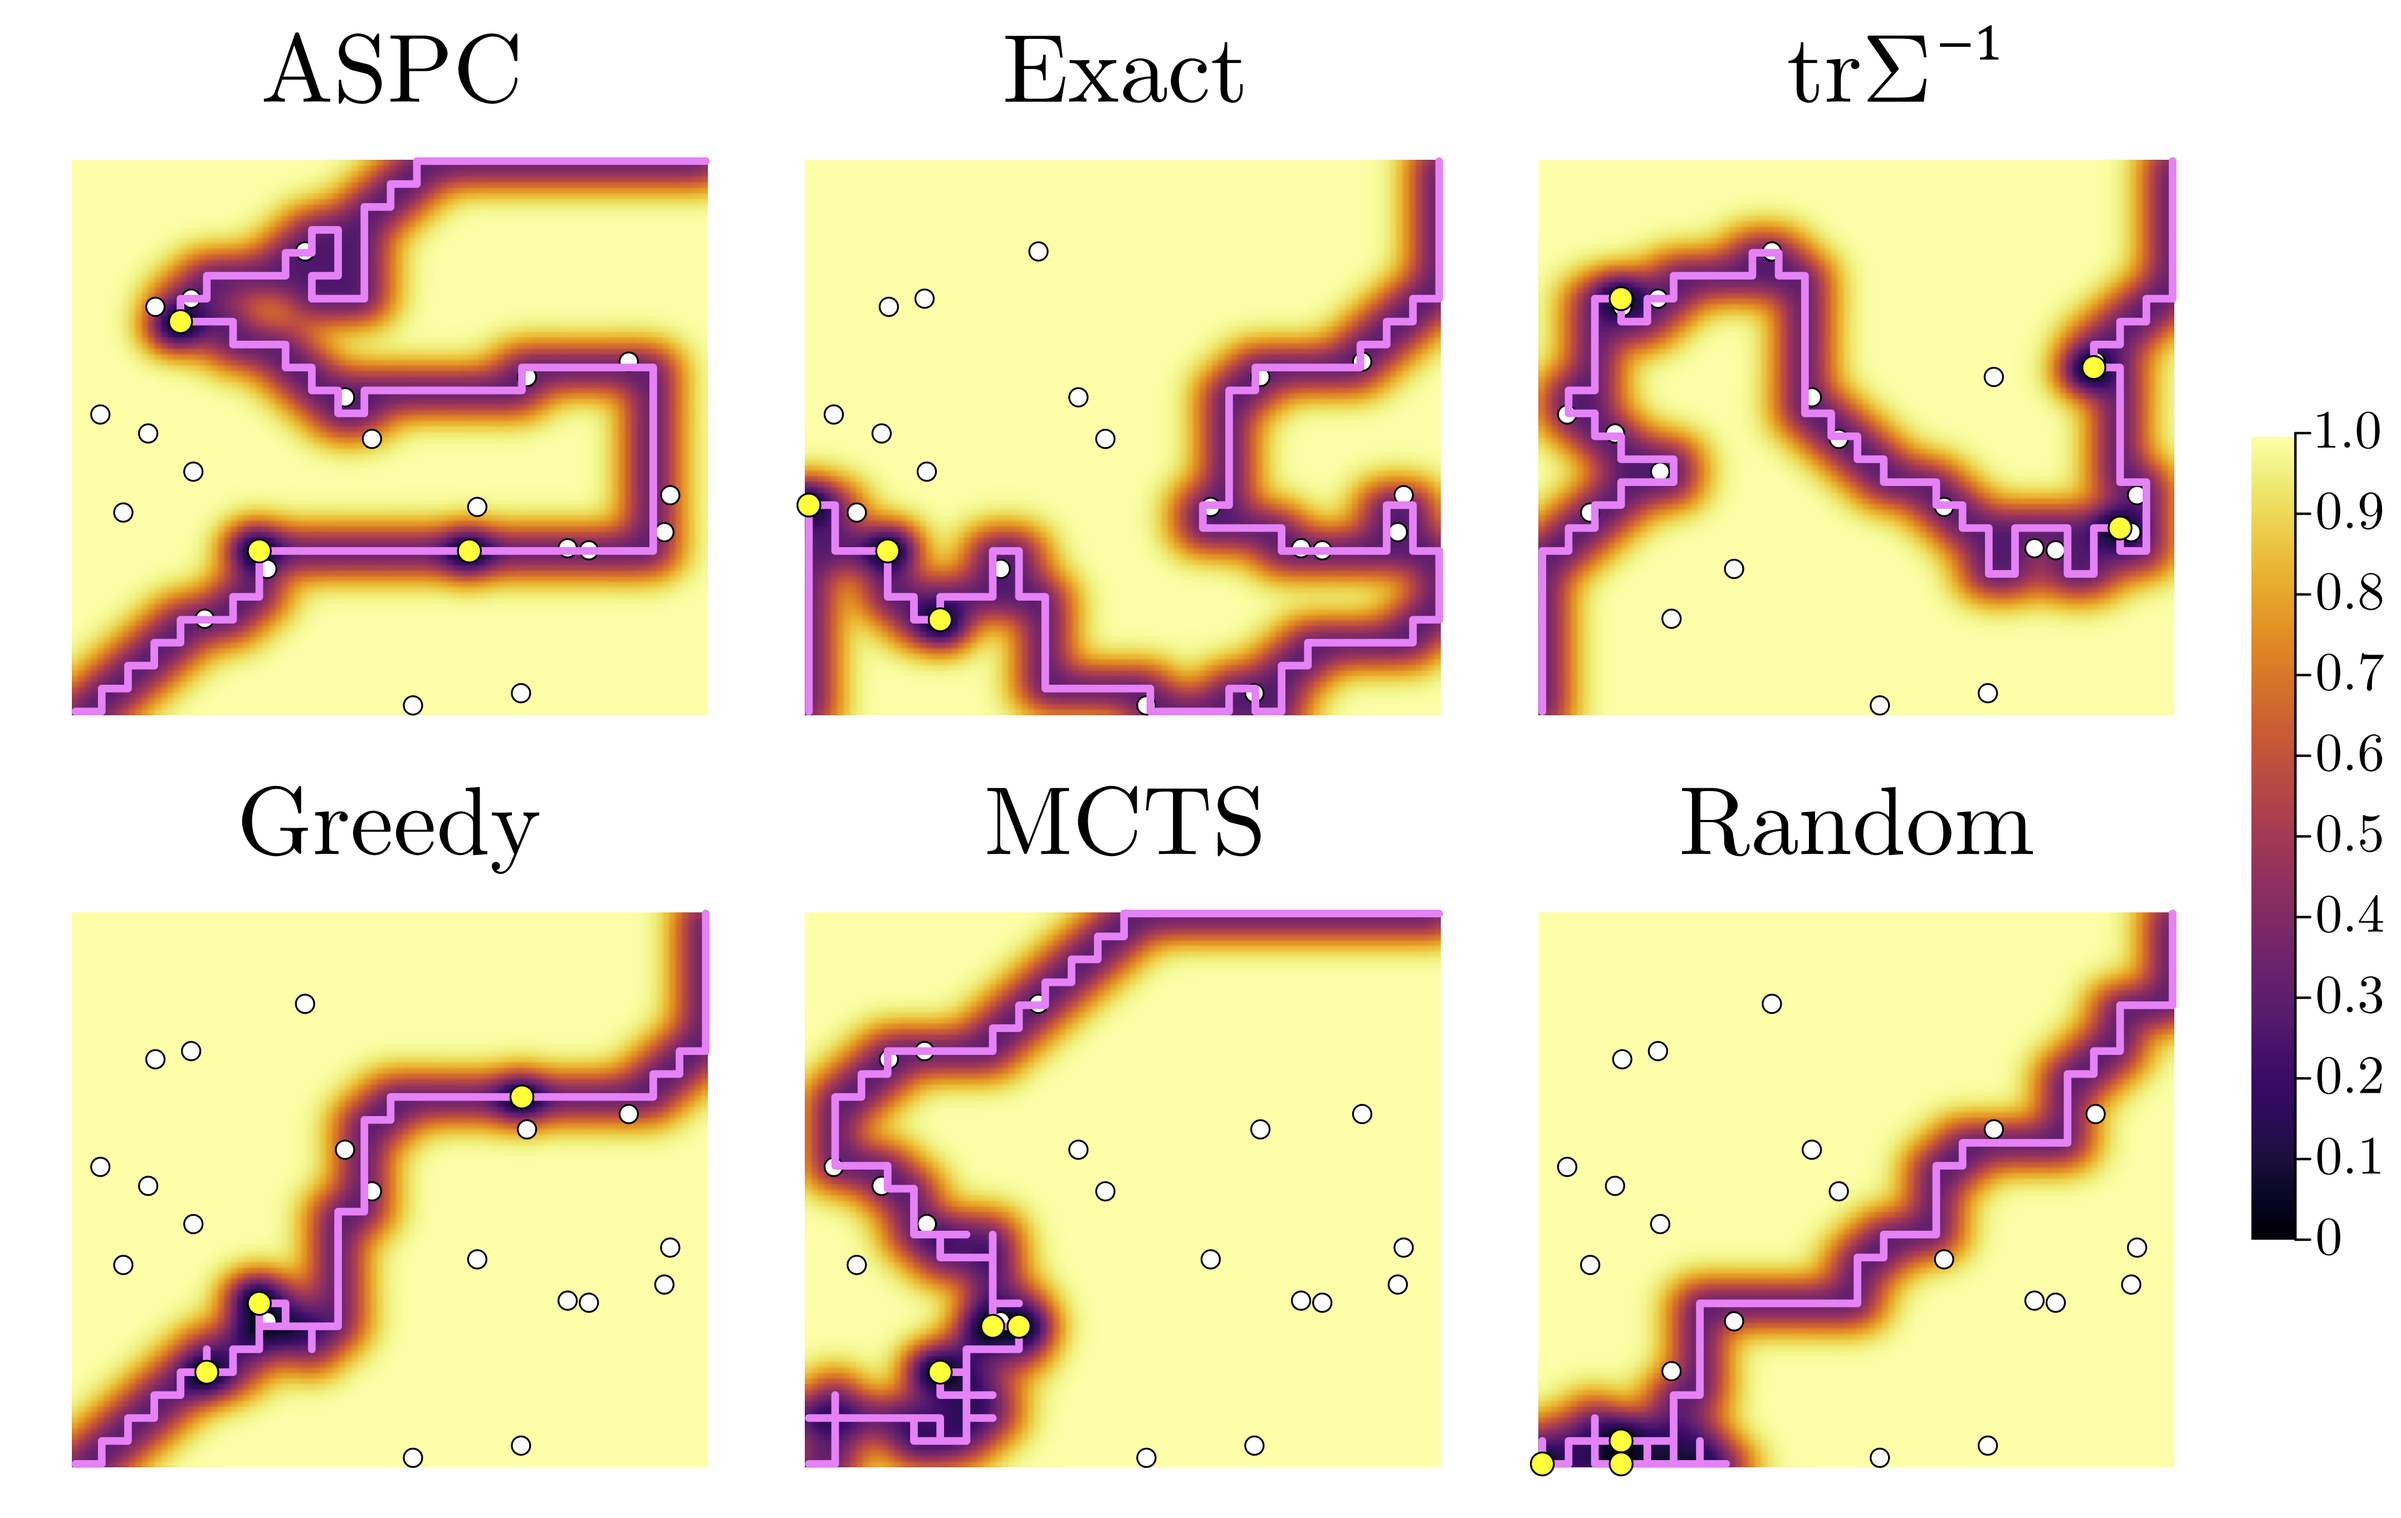
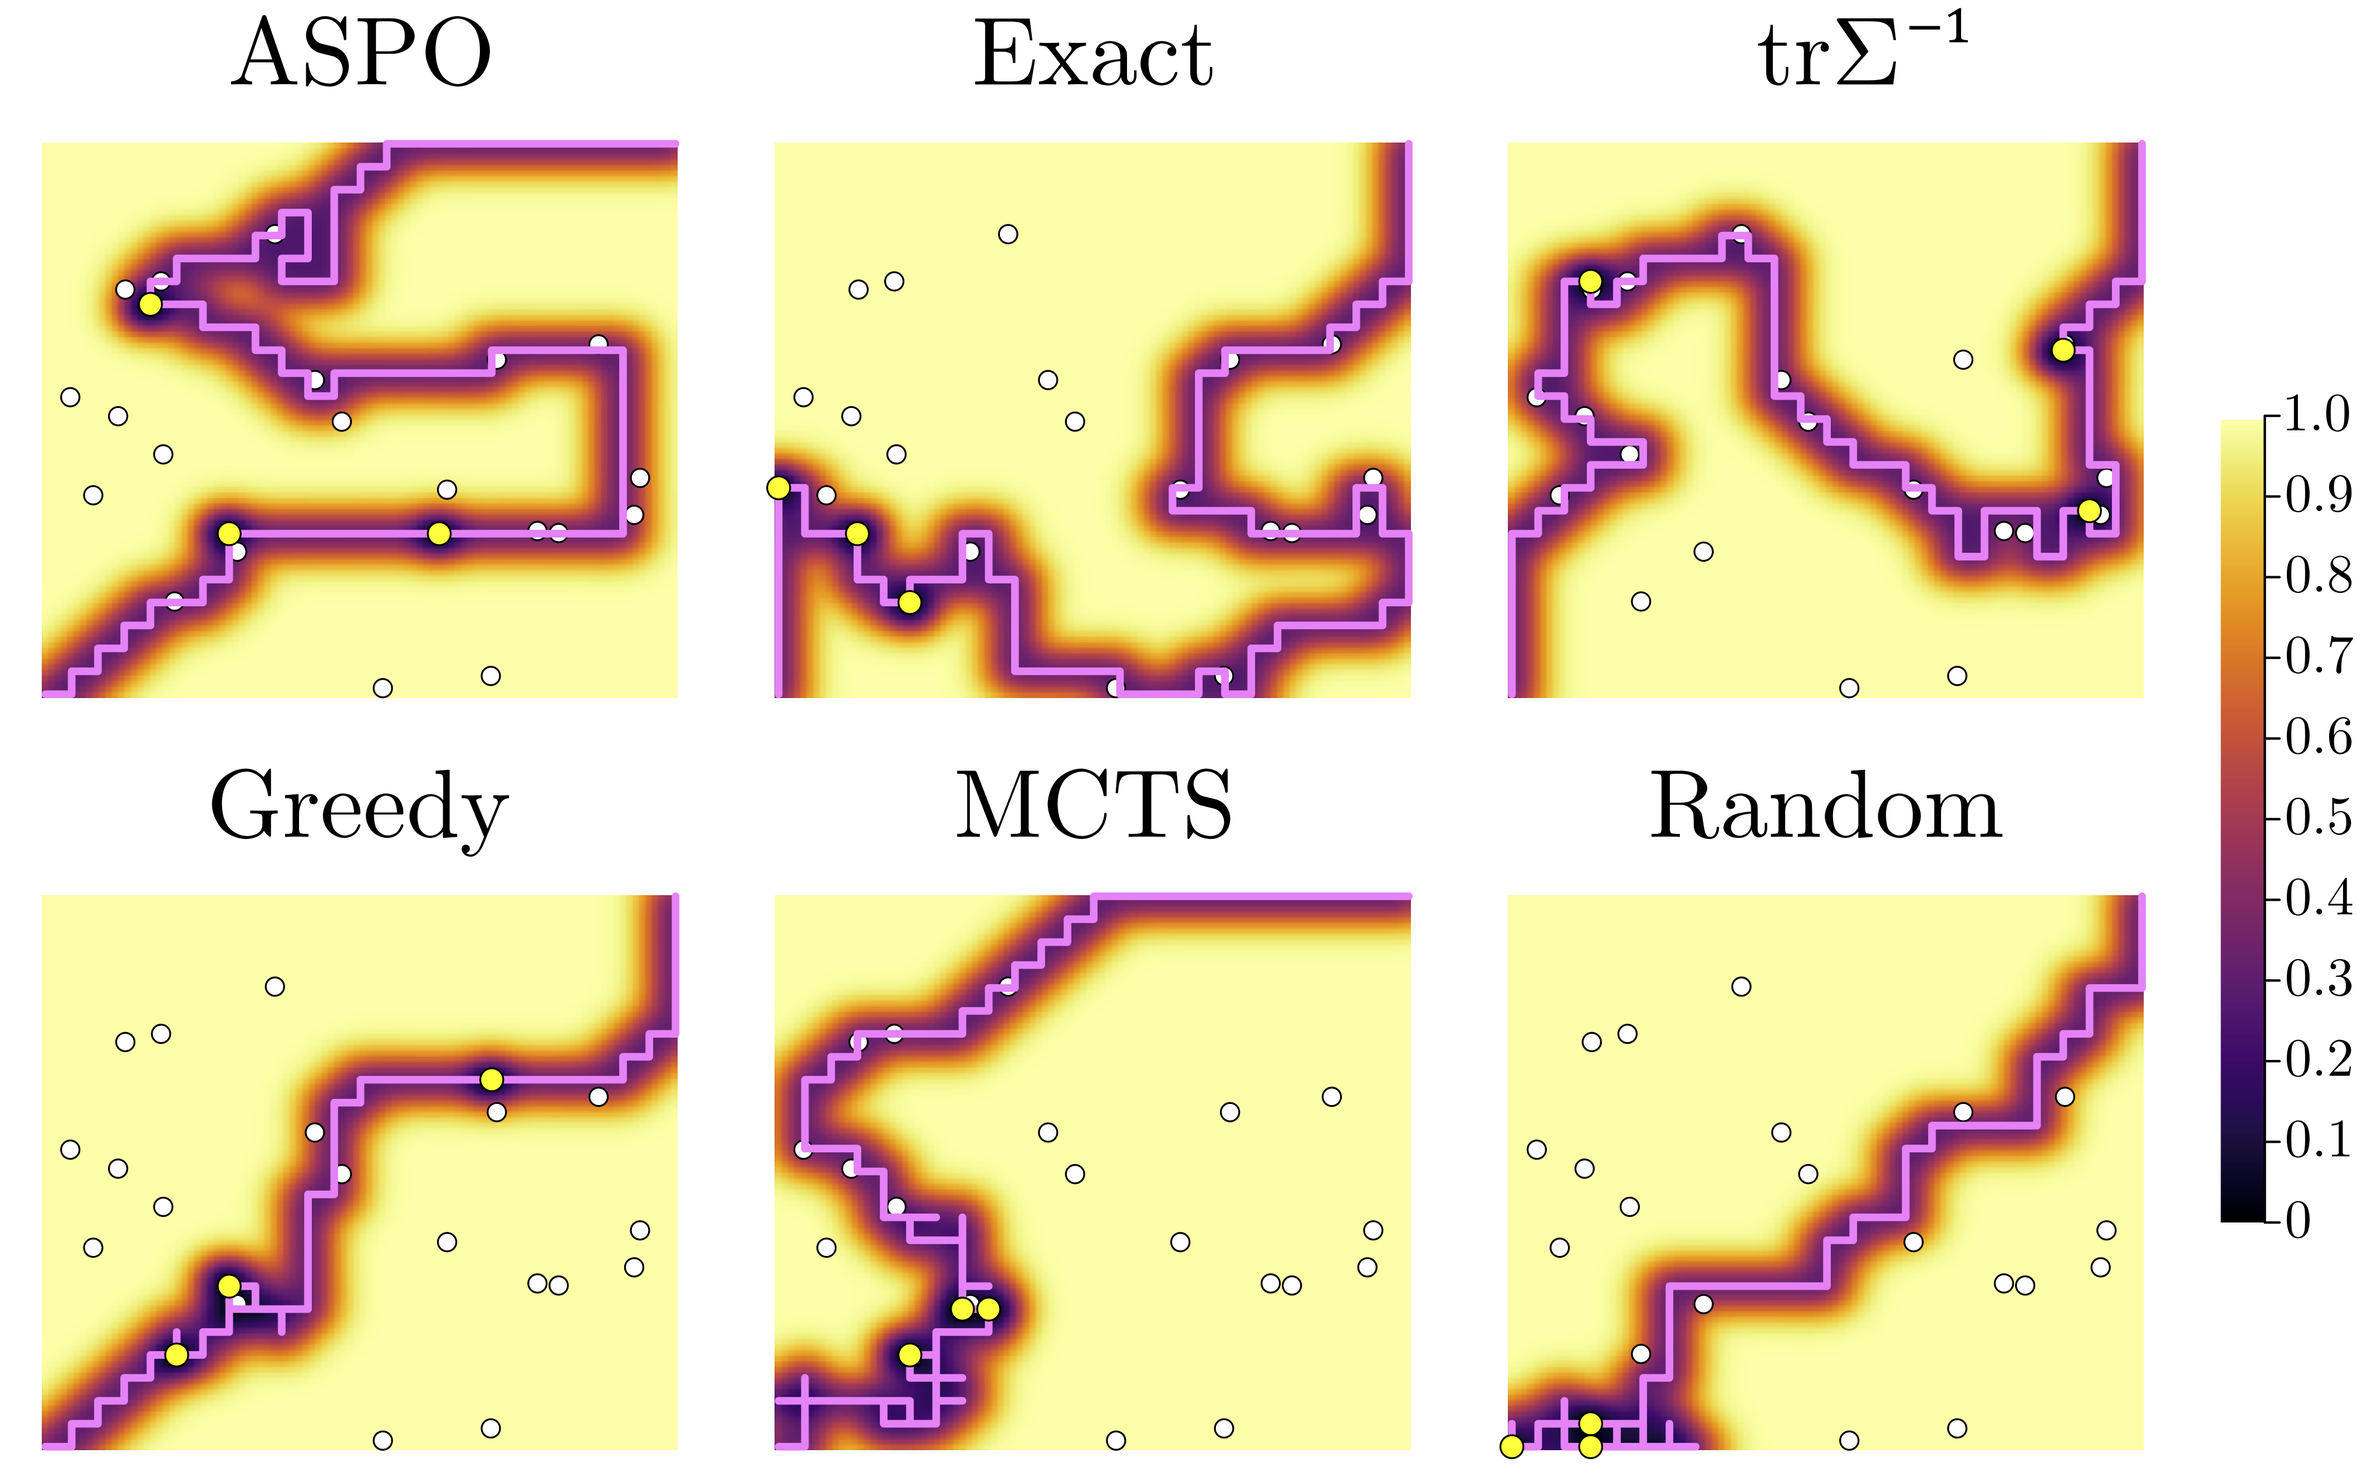
updating ASPC --> ASPO

diff --git a/README.md b/README.md
@@ -41,7 +41,7 @@ If you don't have access to Mosek and Gurobi licenses, you can specify the solve
 # Examples
 Trajectories generated from each of the methods and baselines with `n=625` graph nodes and `m=20` prediction locations. This example also includes multimodal sensor selection where the yellow points indicate more accurate sensing measurements. 
 <p align="center">
-  <img alt="Variance" src="https://github.com/sisl/InformativePathPlanning/blob/main/img/trajectories.png" width="75%">
+  <img alt="Variance" src="https://github.com/sisl/InformativePathPlanning/blob/main/img/trajectories.png" width="100%">
 </p>
 
 Multiagent with obstacles
